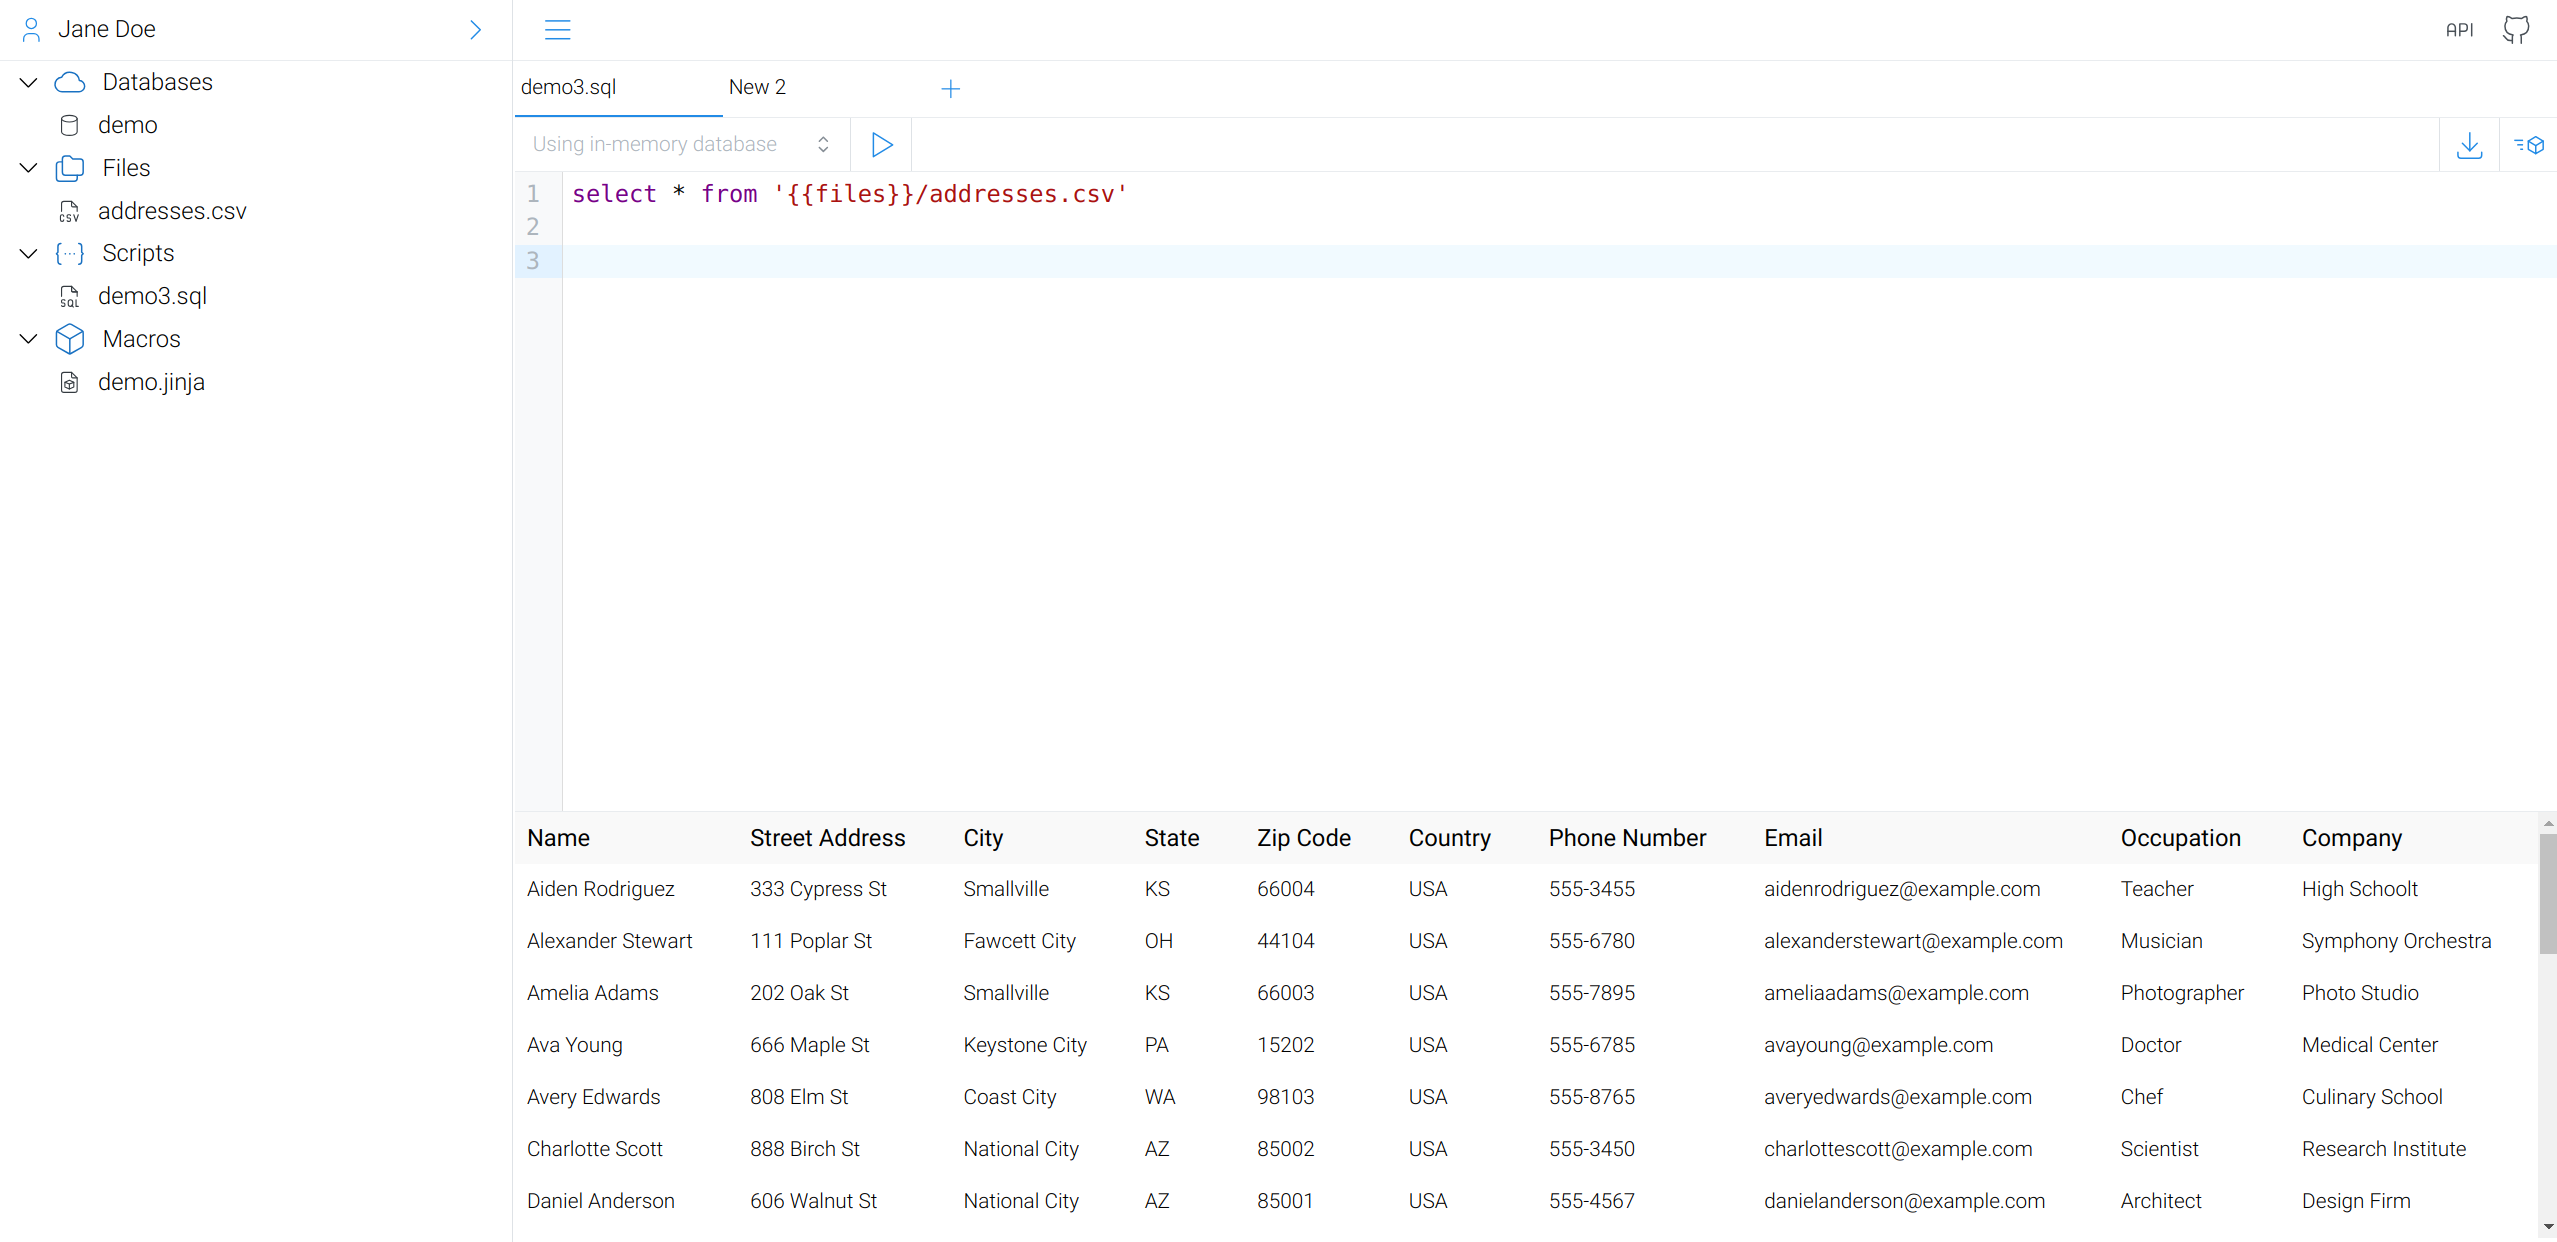
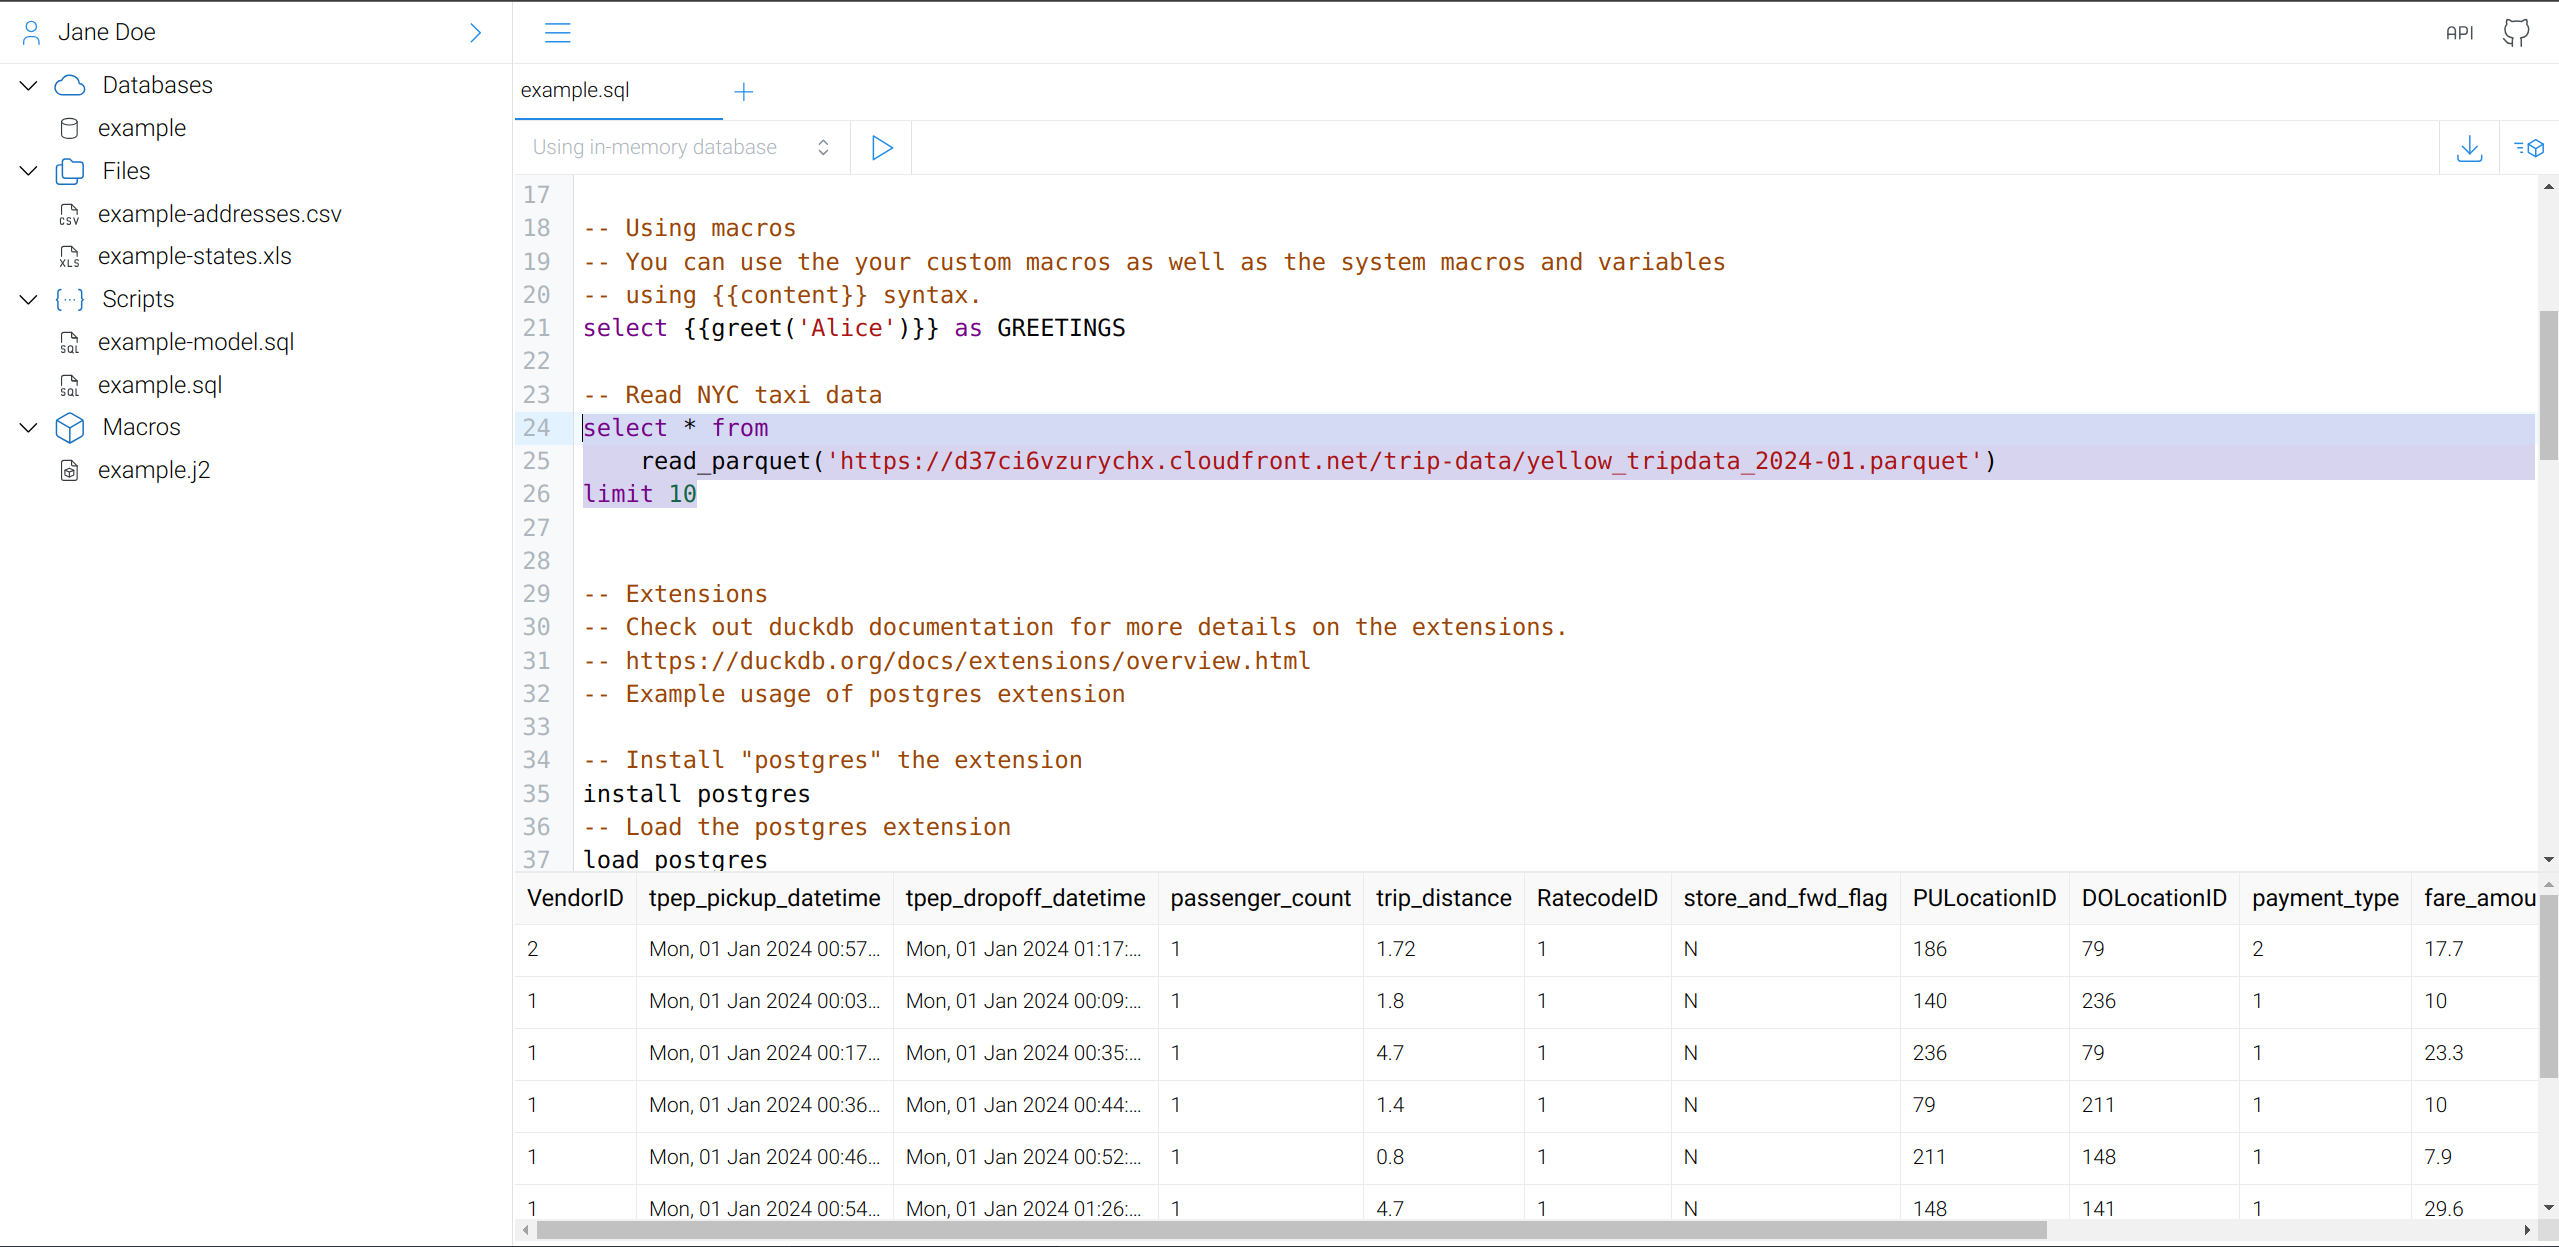
examples

diff --git a/owl/webapp/src/components/Nav/NavExplorer/DataFilesNode.tsx b/owl/webapp/src/components/Nav/NavExplorer/DataFilesNode.tsx
@@ -31,7 +31,7 @@ function toNode(
           color="var(--mantine-color-gray-8)"
         />
       );
-    } else if (file.name.endsWith(".xlsx") || file.name.endsWith(".xlsx")) {
+    } else if (file.name.endsWith(".xlsx") || file.name.endsWith(".xls")) {
       return (
         <IconFileTypeXls
           stroke={1}

diff --git a/owl/server/app/examples/example_content.py b/owl/server/app/examples/example_content.py
@@ -95,18 +95,24 @@ STATES = [
 BASIC_SCRIPT = dedent(
     """
 -- ! If you have multiple statements on the script, you need to select the one to execute.
+-- You can render the actual script that is going to be executed by using the "cube" button
+-- on top-right
+-- You can download the result-set using the download button on the top-right
+-- You can use [Ctrl+Enter] shortcut key to execute the script
+-- Check duckdb documentation for the available functions and syntax, https://duckdb.org/docs/
 
--- # Simple select statement
+-- Simple select statement
 select 10 as MY_NUMBER
 
--- # Querying uploaded files
+-- Querying uploaded files
 -- {{files}} you can access every data file you've uploaded with '{{files}}/file-name.ext'
 -- Currently only below file types are supported:
 -- csv (and friends like tsv etc ...), line delimited json, excel family and parquet files.
 select * from '{{files}}/example-addresses.csv'
 
--- # Using macros
--- You can use the your custom macros as well as the system macros and variables using {{content}} syntax.
+-- Using macros
+-- You can use the your custom macros as well as the system macros and variables
+-- using {{content}} syntax.
 select {{greet('Alice')}} as GREETINGS
 
 -- Read NYC taxi data
@@ -115,7 +121,7 @@ select * from
 limit 10
 
 
--- # Extensions
+-- Extensions
 -- Check out duckdb documentation for more details on the extensions.
 -- https://duckdb.org/docs/extensions/overview.html
 -- Example usage of postgres extension
@@ -129,7 +135,9 @@ load postgres
 -- https://rnacentral.org/help/public-database
 
 -- Attach to postgres instance.
-ATTACH 'dbname=pfmegrnargs user=reader password=NWDMCE5xdipIjRrp host=hh-pgsql-public.ebi.ac.uk port=5432' AS pg (TYPE POSTGRES, READ_ONLY);
+ATTACH
+    'dbname=pfmegrnargs user=reader password=NWDMCE5xdipIjRrp host=hh-pgsql-public.ebi.ac.uk port=5432'
+AS pg (TYPE POSTGRES, READ_ONLY);
 
 -- See available tables on the attached database.
 select * from pg.information_schema.tables limit 10;
@@ -139,21 +147,24 @@ install spatial
 load spatial
 
 -- Select from the sheet 'states'
-select * from st_read('{{files}}/example-states.xls', layer = 'states')
+select * from st_read('{{files}}/example-states.xls',
+  layer = 'states',
+  open_options = ['HEADERS=FORCE']
+)
 
 
 -- You can also use other scripts in your scripts directory as datasets.
--- see 'example-addresses.sql'
+-- see 'example-model.sql'
 -- 'ref' is a system macro and it accepts the name of the script file without '.sql' extension.
-select * from {{ref('example-addresses')}}
+select * from {{ref('example-model')}}
 
 -- Using database
--- ^^^ Select the "demo" database from the dropdown above ^^^
+-- ^^^ Select the "example" database from the dropdown above ^^^
 -- There is already a test table called addresses.
 select * from my_addresses
 
 -- Insert example;
-insert into my_addresses ('name', 'email', 'street','city','phone')
+insert into my_addresses (name, email, street,city,phone)
 values (
     'John Doe','johndoe@example.com','123 Elm St','Springfield','555-1234'
 )
@@ -187,7 +198,7 @@ select * from '{{files}}/example-addresses.csv'
 BASIC_MACROS = """
 -- We use jinja to manage macros.
 -- See documentation for using jinja https://jinja.palletsprojects.com
-
+-- You can test your macros in this section using the command and render Icon on top right
 {% macro greet(name) %}
   'Hello, {{ name }}!'
 {% endmacro %}

diff --git a/owl/server/app/models/database.py b/owl/server/app/models/database.py
@@ -16,6 +16,7 @@ from app.errors.errors import (
 )
 from app.lib.database.registry import registry
 from app.lib.database.validation import validate_query
+from app.lib.sqlparser import statement_starts_with
 from app.macros.index import default_macros
 from app.macros.macros import gen__read_script_file
 from app.models.base import TimestampMixin, db
@@ -188,13 +189,21 @@ class Database(TimestampMixin, UserSpaceMixin["Database"], db.Model):
             database = cls(id=None)
 
         if id is None and statement.get_type() != "SELECT":
-            raise Exception(
-                "Only select statement is supported for in memory database."
-            )
+            if not statement_starts_with(statement, "install", "load", "attach"):
+                raise Exception(
+                    "Only 'select', 'install', 'load', 'attach' statements are supported for in memory database."
+                )
 
         # execute using im-memory database
         if id is None:
-            return database.run_query(conn=duckdb, statement=statement, **kwargs)
+            if statement.get_type() == "SELECT":
+                return database.run_query(conn=duckdb, statement=statement, **kwargs)
+            else:
+                return database.run_execute(
+                    conn=duckdb,
+                    statement=statement,
+                    query_id=query_id,
+                )
 
         # execute using a database
         pool = registry.get(database.id, database)

diff --git a/owl/server/app/lib/sqlparser.py b/owl/server/app/lib/sqlparser.py
@@ -1,0 +1,21 @@
+from sqlparse.sql import Statement
+from sqlparse.tokens import Comment, Keyword, Name, Whitespace
+
+
+def first_non_comment_token(statement: Statement) -> str | None:
+    for token in statement.flatten():  # Use flatten to handle nested tokens
+        # Ignore comments, whitespace, and newlines
+        if (
+            token.ttype not in (Whitespace, Comment)
+            and token.value.strip()
+            and token.ttype in (Keyword, Name)
+        ):
+            return token.value.strip()
+
+
+def statement_starts_with(statement: Statement, *tokens: str) -> bool:
+    head = first_non_comment_token(statement)
+    for token in tokens:
+        if head.lower() == token.lower():
+            return True
+    return False

diff --git a/owl/server/app/examples/examples.py b/owl/server/app/examples/examples.py
@@ -40,7 +40,7 @@ class Examples:
 
     def generate_databases(self) -> "Examples":
         logger.info("Generating databases ...")
-        database = Database(name="example.db", owner_id=self.user_id)
+        database = Database(name="example", owner_id=self.user_id)
         database.create().run(
             id=database.id,
             owner_id=self.user_id,
